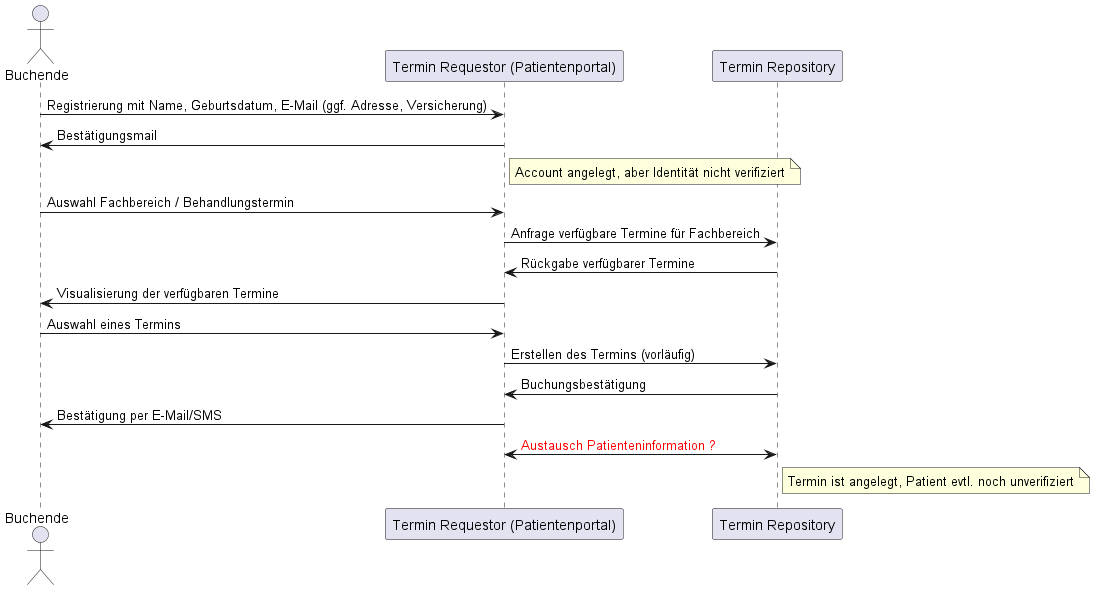
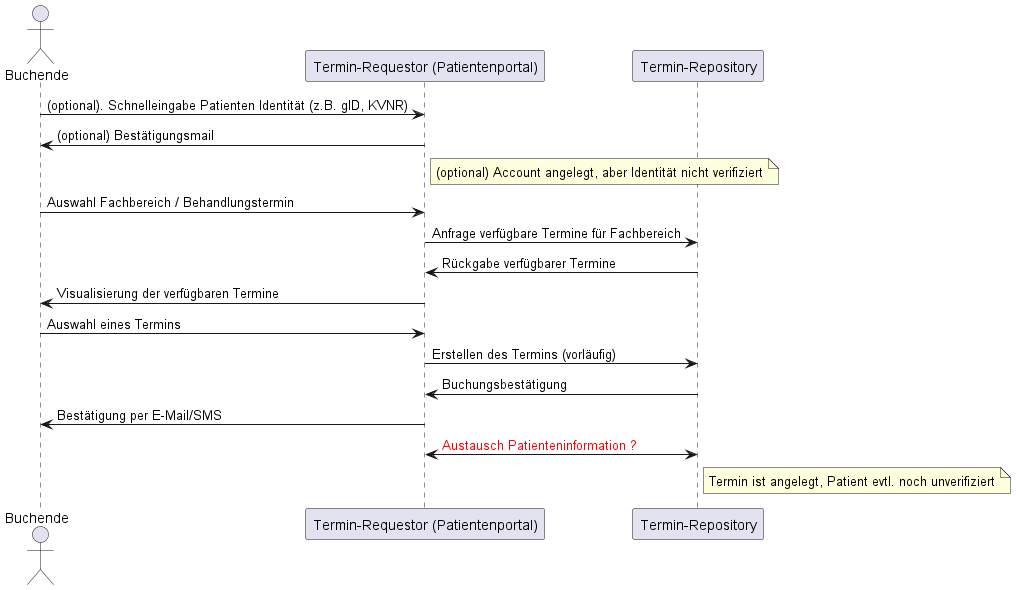
Stufe - 5 Termin - Change registration order for sequence (#764)
* add info

* Update guides/Terminplanung-5/Einfuehrung/ReleaseNotes.page.md

* updat bpmn + puml

* add png sequence high level

* fix typo

* change registration order for sequence

* update order

* update order

* generate diagram

* update order

* split diagrams

* fix

* Update guides/Terminplanung-5/Einfuehrung/UseCases/Prozesse.page.md

* Update guides/Terminplanung-5/Einfuehrung/UseCases/Prozesse.page.md

* Update guides/Terminplanung-5/Einfuehrung/UseCases/Prozesse.page.md

* Update guides/Terminplanung-5/Einfuehrung/UseCases/Prozesse.page.md

* Update guides/Terminplanung-5/Einfuehrung/UseCases/Prozesse.page.md

* Update guides/Terminplanung-5/Einfuehrung/UseCases/Prozesse.page.md

* Update guides/Terminplanung-5/Einfuehrung/UseCases/Prozesse.page.md

* Update guides/Terminplanung-5/Einfuehrung/UseCases/Prozesse.page.md

* update diagrams

* rm redundant files

* rename files

* add note

---------

diff --git a/guides/Terminplanung-5/Einfuehrung/UseCases/Prozesse.page.md b/guides/Terminplanung-5/Einfuehrung/UseCases/Prozesse.page.md
@@ -37,6 +37,9 @@ Einzelne Interaktionen, die in diesem Sequenzdiagramm skizziert werden und für 
 Der Anteil an Buchungen durch Dritte ist relevant und kann in bestimmten Versorgungs-Settings sogar die Regel darstellen. Entsprechend sollten auch die Registrierungs-, Authentifizierungs und die Patientendatenübermittlung gestaltet werden.
 
 
+**Hinweis:** Es sei darauf hingewiesen, dass hier explizit der UML-Akteur **'Buchender'** genutzt wurde, wobei dies sowohl einen **Patienten** als auch eine **angehörige Person** bedeuten kann, die im Namen des Patienten einen Termin buchen können.
+
+
 ## Identitätsnachweis der Patienten
 
 Insbesondere zur nahtlosen Integration von Prozessen über verschiedene Systeme (z.B. Patientenportal und KIS), die sich in gekapselten Zugriffsumgebungen befinden, sind Workflows zum Identitätsnachweis von Patienten unabdinglich.
@@ -46,8 +49,22 @@ Folgende Alternativen zur Erbringung eines Identitätsnachweises können schemat
 {{render:Material/Terminplanung/images/diagrams/identitaetsnachweis-bpmn.png}}
 
 Insbesondere für die Verifizierung des Patienten im Laufe der Registrierung im Patientenportal soll hier ein Workflow vorgestellt werden, der einem künftigen Happy Path zur Terminbuchung samt Datenaustausch über eine validierte Patienten-Identität und zugehöriger Daten (in Portal und KIS) entspricht. 
-Der Nachweis-Workflow soll die Übernahme validierter Patienten-Identitäten unter der Annahme von Read-Only Operationen (GET) zwischen den daten-führenden Systemen zur Übernahme sowie vorgelagerter Identifizierung eines Patienten mittels IDP (z.B. mittels GesundheitsID) skizzieren:
+Der Nachweis-Workflow soll die Übernahme validierter Patienten-Identitäten unter der Annahme von Read-Only Operationen (GET) zwischen den daten-führenden Systemen zur Übernahme sowie vorgelagerter Identifizierung eines Patienten mittels IDP (z.B. mittels GesundheitsID) skizzieren (Annahme: Patientendaten liegen bereits intern im Basis-Server vor, da Patient bereits Kontakt mit dem Krankenhaus hatte):
 
-{{render:Material/Terminplanung/images/diagrams/identitaetsnachweis-sequenz.png}}
+{{render:Material/Terminplanung/images/diagrams/identitaetsnachweis-sequenz-happy-path-patient.png}}
+
+**Hinweis zur Abfolge von Terminbuchung und Registrierung:**
+Explizit soll eine Registrierung erst bei tatsächlicher Buchung erfolgen – nicht bereits zur Anzeige verfügbarer Termine. So ist es möglich Absprungraten zu senken, die digitale Zugänglichkeit zu steigern sowie die Nutzerakzeptanz allgemein zu verbessern. Auch der Vorsatz der Datenminimierung kann besser eingehalten werden.
+Es muss angenommen werden, dass viele Termine durch Dritte gebucht werden – etwa Angehörige, Eltern oder gesetzlich betreuende Personen. Eine sofortige Registrierung erschwert diese unterstützenden Prozesse und schränkt die barrierearme Nutzung deutlich ein, vor allem bei einmaliger oder sporadischer Inanspruchnahme.
+Zudem ist naheliegend, dass Patienten sich zunächst unverbindlich orientieren möchten, ob passende Termine oder Leistungen angeboten werden. Eine Registrierung als Einstieg widerspräche etablierten UX-Prinzipien („erst Wert zeigen, dann Verpflichtung“) und erhöht die Nutzungshürde ohne erkennbaren Mehrwert.
+
+Zur Darstellung des Sachverhalts einer Buchung durch Angehörige kann folgendes Diagramm dienen:
+
+{{render:Material/Terminplanung/images/diagrams/identitaetsnachweis-sequenz-angehoeriger.png}}
+
+In diesem Kontext sollte gelten:
+- Die Registrierung im Patientenportal bezieht sich ausschließlich auf die buchende Person. Ihre Identität und Kontaktdaten werden zur Nutzerführung, Kommunikation und ggf. Authentifizierung verwendet.
+- Die Terminbuchung selbst sollte die Identität der zu behandelnden Person erfassen – also des tatsächlichen Patienten. Diese Patientendaten (z. B. Name, Geburtsdatum, KVNR) sind mit dem gebuchten Termin zu verknüpfen und sollten korrekt an nachgelagerte Systeme (z. B. Termin-Repository, Basis-Server) übergeben werden.
+- Bei Bedarf (z. B. für die Slot-Suche) kann bereits vor der Buchung eine (minimale) strukturierte Erfassung von Patientendaten (z. B. Sprache, Alter, Geschlecht etc.) im Termin-Requestor (oder angeschlossener Komponente) erfolgen, ohne dabei eine Registrierung zu erzwingen.
 
 Die Abfragen von Patientendaten gegenüber dem Basis-Server dienen anknüpfenden Workflows (z.B. zur Bereitstellung von Dokumenten, Vitaldaten etc.). Das Zugriffsmanagement bleibt bei dieser Skizze jedoch noch offen.

diff --git a/guides/Terminplanung-5/Einfuehrung/ReleaseNotes.page.md b/guides/Terminplanung-5/Einfuehrung/ReleaseNotes.page.md
@@ -9,6 +9,7 @@ Die erste Ziffer X bezeichnet ein Major-Release und regelt die Gültigkeit von R
 Datum: tbd.
 
 * `improve` Dokumentation und Klarstellung zur Verwendung des Akteurs "Buchender" (als Patient und Angehöriger) in Prozessen https://github.com/gematik/spec-ISiK-Basismodul/pull/763
+* `improve` Ausdifferenzierung der Prozesse rund um die Registrierung und den Identitätsnachweis bei Terminbuchung https://github.com/gematik/spec-ISiK-Basismodul/pull/764/files`
 
 
 ## Version 5.0.0-rc2 (Benehmensherstellung)
